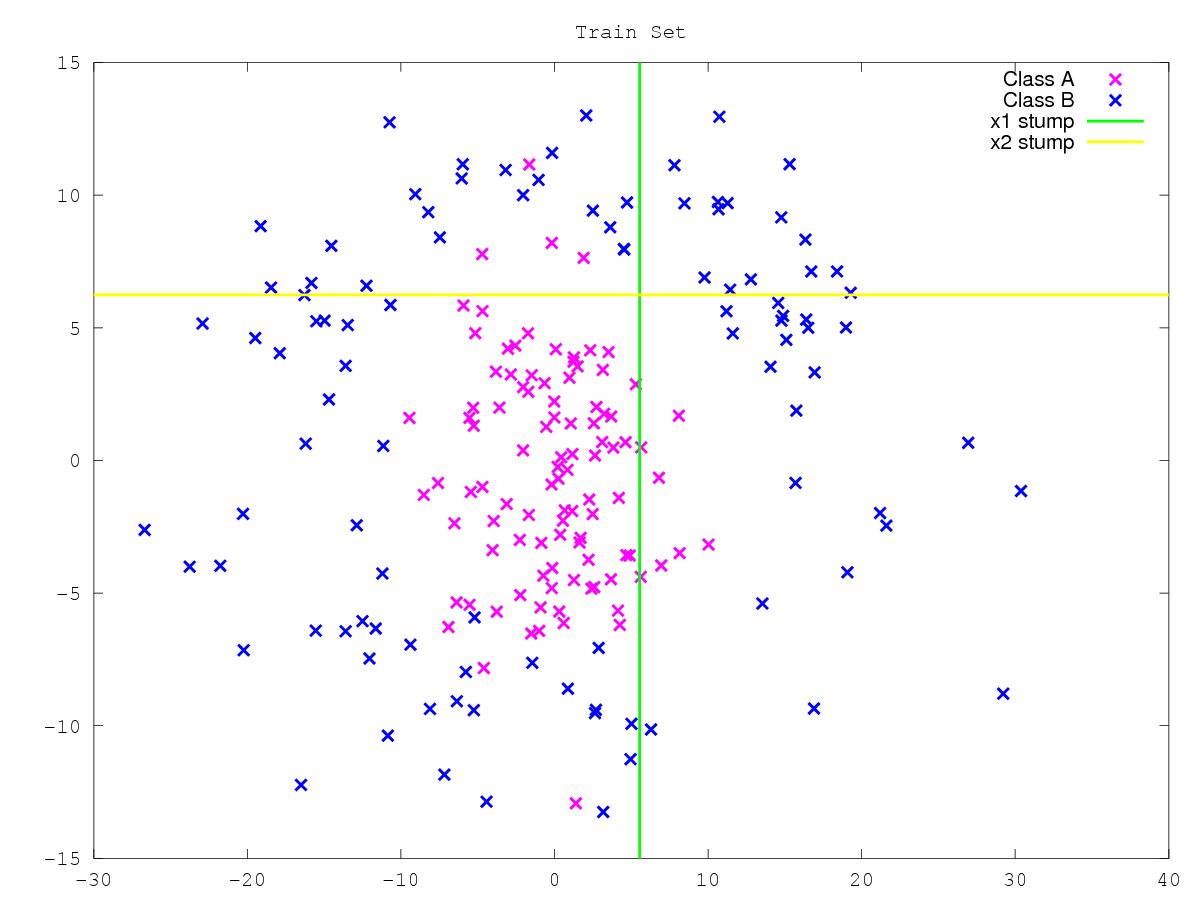
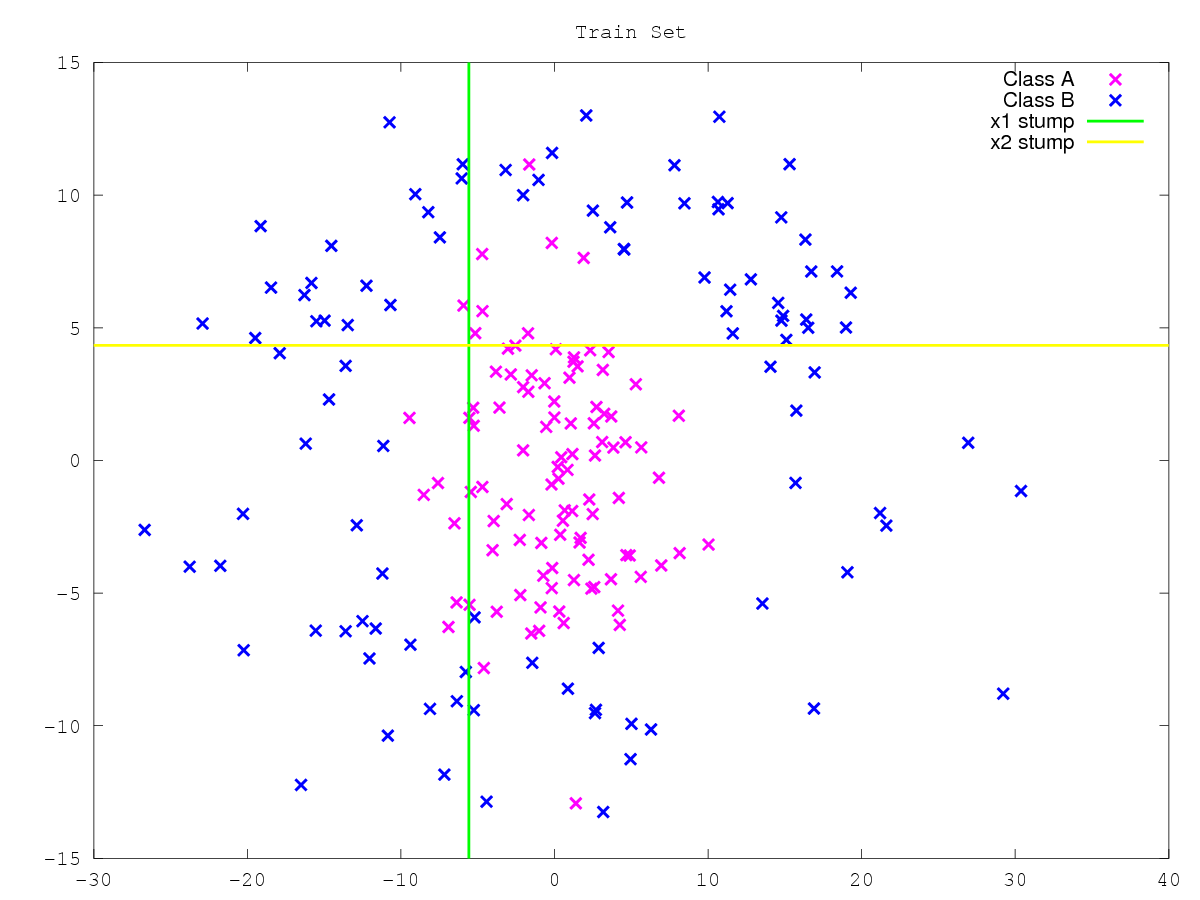
Corrected

Changed region(s): [[0.0925, 0.0933, 0.9558, 0.9333]]

diff --git a/Project_6/proj6-2-1/stumps.m b/Project_6/proj6-2-1/stumps.m
@@ -1,0 +1,206 @@
+
+printf("Loading stumps \n");
+
+%%%%%%%%%%%%%%%%%%%%%%%%%%%%%%
+function [xStumps, err, hs] = xStumps( data )
+
+	n = size(data,1);
+
+	% Find limits
+	x1_min = min( data(:,1) );
+	x1_max = max( data(:,1) );
+
+	x2_min = min( data(:,2) );
+	x2_max = max( data(:,2) );
+
+	K = 100;
+	dx1 = (x1_max - x1_min)/K;
+	dx2 = (x2_max - x2_min)/K;
+    dx = [dx1, dx1, dx2, dx2];
+
+	% Find best slumps
+
+	x_stumps = zeros(K,4);
+	errors = zeros(K,4);
+
+	x_stumps(1,1) = x1_min;
+	x_stumps(1,2) = x1_min;
+	x_stumps(1,3) = x2_min;
+	x_stumps(1,4) = x2_min;
+
+
+    % Do the job
+	for i = 1:K
+
+		predicted_x = zeros(n,4);
+
+		% Classify
+		for j = 1:n
+			% stump 1
+    		if data(j,1) < x_stumps(i,1)
+		  		predicted_x(j,1) = 1; % A 
+			else
+		  		predicted_x(j,1) = -1; % B
+			endif
+
+			% stump 2
+    		if data(j,1) < x_stumps(i,2)
+		  		predicted_x(j,2) = -1; % B 
+			else
+		  		predicted_x(j,2) = 1; % A
+			endif
+
+			% stump 3
+    		if data(j,2) < x_stumps(i,3)
+		  		predicted_x(j,3) = 1; % A 
+			else
+		  		predicted_x(j,3) = -1; % B
+			endif
+
+			% stump 4
+    		if data(j,2) < x_stumps(i,4)
+		  		predicted_x(j,4) = -1; % B 
+			else
+		  		predicted_x(j,4) = 1; % A
+			endif
+		endfor 	
+
+		% Check accuracy
+    	counts = zeros(1,4);
+
+		for j = 1:n
+
+		    % Stump 1
+    		if predicted_x(j,1) != data(j,3)
+				counts(1,1) = counts(1,1) + data(j,4);
+			endif
+
+		    % Stump 2
+    		if predicted_x(j,2) != data(j,3)
+				counts(1,2) = counts(1,2) + data(j,4);
+			endif
+
+		    % Stump 3
+    		if predicted_x(j,3) != data(j,3)
+				counts(1,3) = counts(1,3) + data(j,4);
+			endif
+
+		    % Stump 4
+    		if predicted_x(j,4) != data(j,3)
+				counts(1,4) = counts(1,4) + data(j,4);
+			endif
+
+		endfor 	
+
+		errors(i,1) = counts(1,1);
+		errors(i,2) = counts(1,2);
+		errors(i,3) = counts(1,3);
+		errors(i,4) = counts(1,4);
+
+		% Update stumps
+		x_stumps(i+1,:) = x_stumps(i,:) .+ dx;
+	endfor
+
+	[minx1, minloc1] = min(errors(:,1) );
+	[minx2, minloc2] = min(errors(:,2) );
+	[minx3, minloc3] = min(errors(:,3) );
+	[minx4, minloc4] = min(errors(:,4) );
+
+    xStumps = zeros(1,4);
+	xStumps(1,1) = x_stumps( minloc1, 1 );
+	xStumps(1,2) = x_stumps( minloc2, 2 );
+	xStumps(1,3) = x_stumps( minloc3, 3 );
+	xStumps(1,4) = x_stumps( minloc4, 4 );
+
+	err = zeros(1,4);
+    err(1,1) = errors( minloc1, 1 );
+    err(1,2) = errors( minloc2, 2 );
+    err(1,3) = errors( minloc3, 3 );
+    err(1,4) = errors( minloc4, 4 );
+
+	% hs
+	hs = zeros(n,4);
+
+	for j = 1:n
+
+   		if data(j,1) < xStumps(1,1)
+	  		hs(j,1) = 1; % A 
+		else
+	  		hs(j,1) = -1; % B
+		endif
+
+   		if data(j,1) < xStumps(1,2)
+	  		hs(j,2) = -1; % B 
+		else
+	  		hs(j,2) = 1; % A
+		endif
+
+
+   		if data(j,2) < xStumps(1,3)
+	  		hs(j,3) = 1; % A 
+		else
+	  		hs(j,3) = -1; % B
+		endif
+
+
+   		if data(j,2) < xStumps(1,4)
+	  		hs(j,4) = -1; % B 
+		else
+	  		hs(j,4) = 1; % A
+		endif
+
+	endfor 	
+
+endfunction
+
+%%%%%%%%%%%%%%%%%%%%%%%%%%%%%%
+function [h] = applyStump( data, stump, type )
+
+    n = size(data,1);
+    h = zeros(n,1);
+
+    if type == 1
+
+		for j = 1:n
+   			if data(j,1) < stump
+	  			h(j,1) = 1; % A 
+			else
+	  			h(j,1) = -1; % B
+			endif
+		endfor
+
+	elseif type == 2
+
+		for j = 1:n
+	   		if data(j,1) < stump
+		  		h(j,1) = -1; % B 
+			else
+		  		h(j,1) = 1; % A
+			endif
+		endfor
+
+	elseif type == 3
+
+		for j = 1:n
+   			if data(j,2) < stump
+	  			h(j,1) = 1; % A 
+			else
+	  			h(j,1) = -1; % B
+			endif
+		endfor
+
+	elseif type == 4
+
+		for j = 1:n
+	   		if data(j,2) < stump
+		  		h(j,1) = -1; % B 
+			else
+		  		h(j,1) = 1; % A
+			endif
+		endfor
+	else
+		printf("Silly, something is wrong, probably your input \n");
+    endif
+
+
+endfunction

diff --git a/Project_6/proj6-2-1/proj6_2_1.m b/Project_6/proj6-2-1/proj6_2_1.m
@@ -21,81 +21,42 @@ nB = size( trainB, 1 );
 % Putting together the test stuff
 n = nA + nB;
 
-testData = zeros( n, 1 + size(testA,2) );
+trainData = zeros( n, 2 + size(trainA,2) );
 
-testData( 1:nA, 3 ) = 1*ones(nA, 1); % A
-testData( nA+1:end, 3 ) = 2*ones(nB, 1); %B
+trainData( 1:nA, 3 ) = 1*ones(nA, 1); % A
+trainData( nA+1:end, 3 ) = -1*ones(nB, 1); %B
+trainData( :, 4 ) = 1; % A
 
-testData(:, 1:2 ) = [ testA; testB ];
+trainData(:, 1:2 ) = [ trainA; trainB ];
 
 
-% Find limits
-x1_min = min( testData(:,1) )
-x2_min = min( testData(:,2) )
-x1_max = max( testData(:,1) )
-x2_max = max( testData(:,2) )
+[stumps, err, hs] = xStumps( trainData );
 
-k = 100;
-dx1 = (x1_max - x1_min)/k
-dx2 = (x2_max - x2_min)/k
+err1 = err(1,1); err2 = err(1,2);
+err3 = err(1,3); err4 = err(1,4);
 
-% Find best x1 slump
+e1Slump = 0;
+e2Slump = 0;
 
-x_slump = zeros(k,2);
-error = zeros(k,2);
+if( err1 < err2)
+	x1Slump = stumps(1,1);
+    e1Slump = err1;
+else
+	x1Slump = stumps(1,2);
+    e1Slump = err2;
+endif
 
-x_slump(1,:) = [x1_min, x2_min];
+if( err3 < err4)
+	x2Slump = stumps(1,3);
+	e2Slump = err3;
+else
+	x2Slump = stumps(1,4);
+    e2Slump = err4;
+endif
 
-for i = 1:k
 
-	predicted_x = zeros(n,2);
-
-	% Classify
-	for j = 1:n
-		% x1
-    	if testData(j,1) < x_slump(i,1)
-		  predicted_x(j,1) = 1; 
-		else
-		  predicted_x(j,1) = 2;
-		endif
-		% x2
-    	if testData(j,2) < x_slump(i,2)
-		  predicted_x(j,2) = 1; 
-		else
-		  predicted_x(j,2) = 2;
-		endif
-
-	end 	
-
-	% Check accuracy
-    count1 = 0; count2 = 0;
-
-	for j = 1:n
-    	if predicted_x(j,1) != testData(j,3)
-			count1++;
-		endif
-
-    	if predicted_x(j,2) != testData(j,3)
-			count2++;
-		endif
-
-	end 	
-	error(i,1) = count1;
-    error(i,2) = count2;   
-
-	% Update slump
-	x_slump(i+1,1) = x_slump(i,1) + dx1;
-    x_slump(i+1,2) = x_slump(i,2) + dx2;	
-end
-
-[minx1, minloc1] = min(error(:,1) );
-[minx2, minloc2] = min(error(:,2) );
-
-x1Slump = x_slump(minloc1,1)
-x2Slump = x_slump(minloc2,2)
-
-printf("Slump x1: %f error: %d for %d training data \n", x1Slump, error(minloc1, 1), n);
-printf("Slump x2: %f error: %d for %d training data \n", x2Slump, error(minloc2, 2), n);
+printf("Slump x1: %f error: %d for %d training data \n", x1Slump, e1Slump, n);
+printf("Slump x2: %f error: %d for %d training data \n", x2Slump, e2Slump, n);
 
 % Plot train set
 figure(1);
